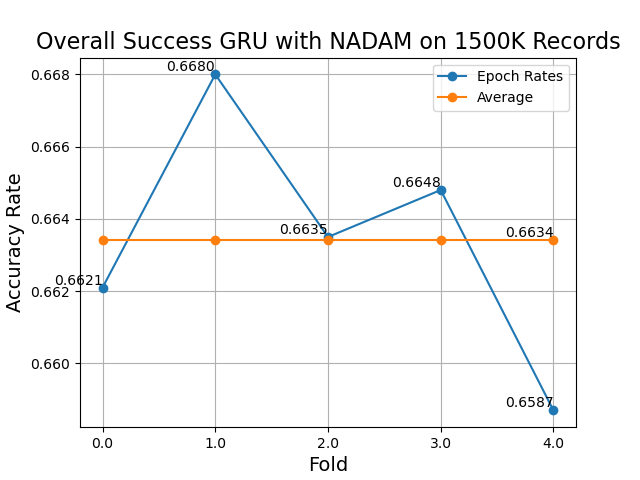
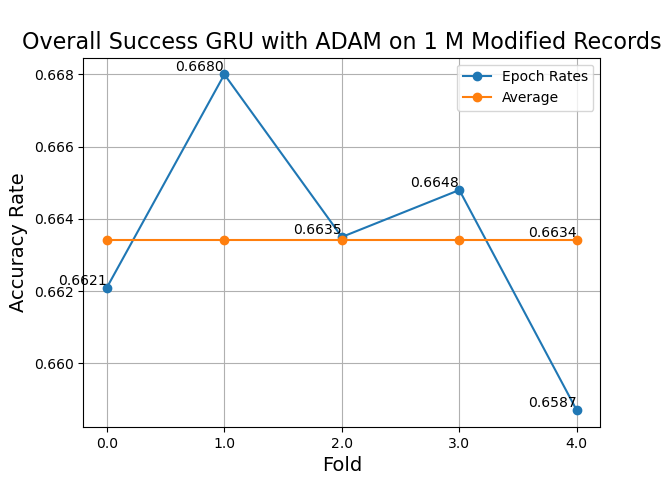
DecData 1M görselinde düzenleme

diff --git a/GRU/avarage_pilot.py b/GRU/avarage_pilot.py
@@ -51,6 +51,6 @@ plt.xticks(rng, [f'{val:.1f}' for val in rng])
 plt.grid()
 plt.xlabel('Fold', size=14)
 plt.ylabel('Accuracy Rate', size=14)
-plt.title('Overall Success GRU with NADAM on 1500K Records', size=16)
+plt.title('Overall Success GRU with ADAM on 1 M Modified Records', size=16)
 plt.legend()
 plt.show()
